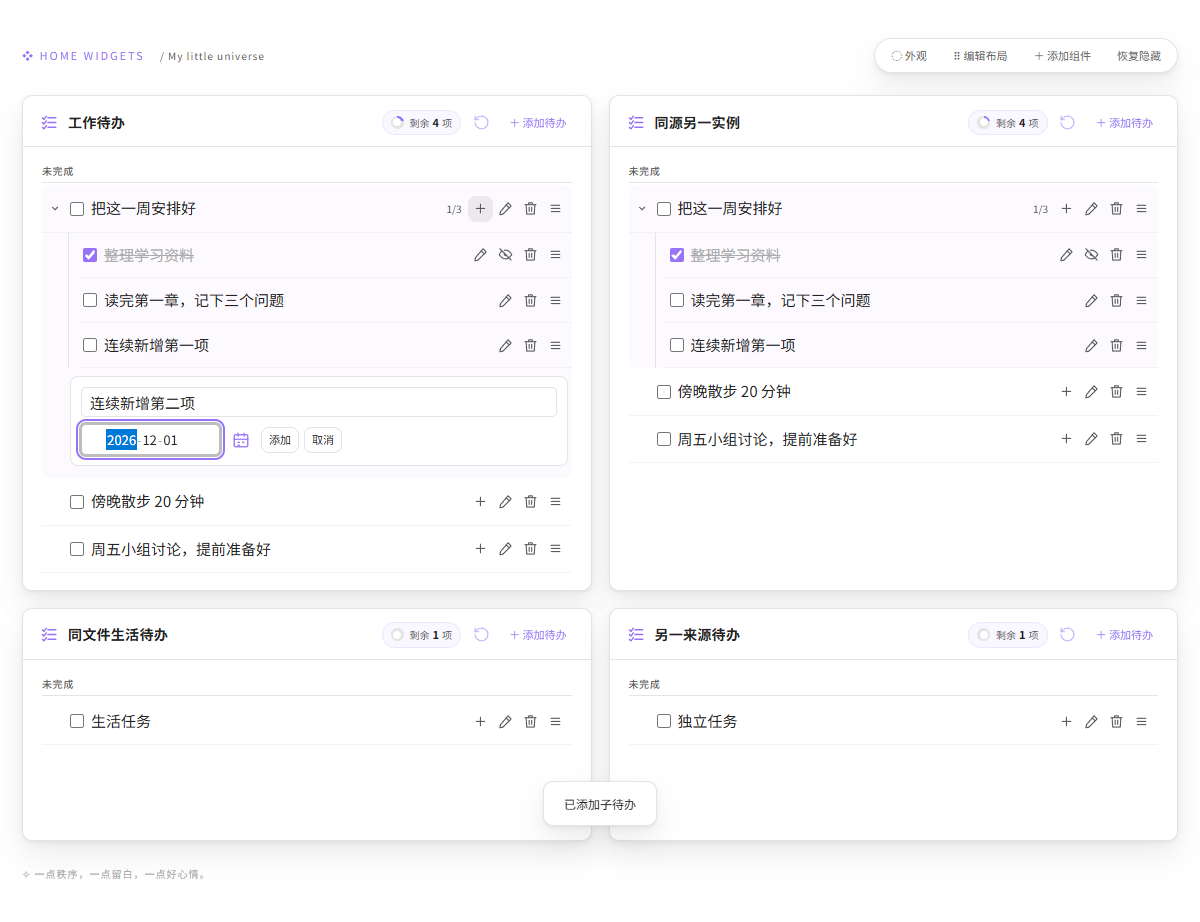
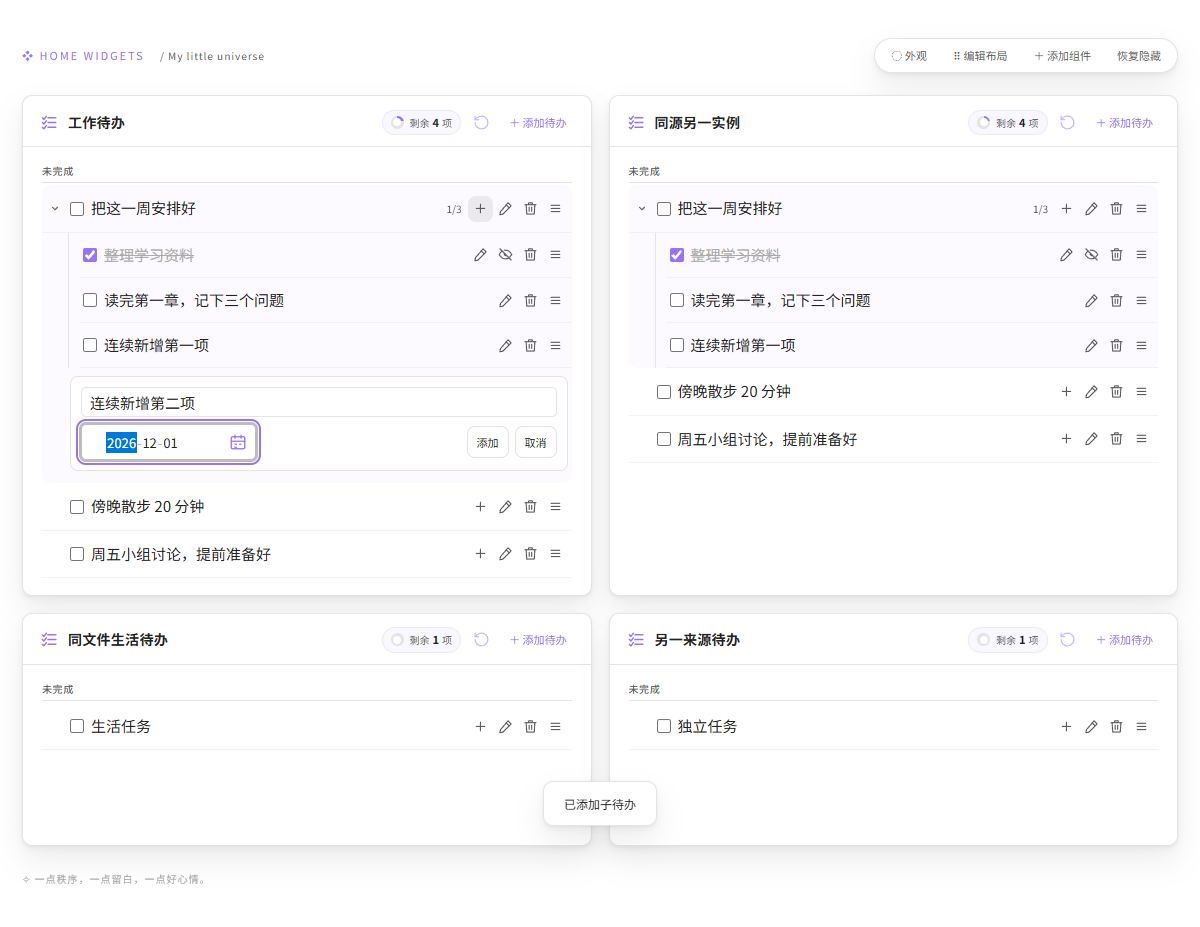
style(home-widgets): 调整子待办添加区布局

diff --git a/HomeWidgets/src/widgets/tasks/styles.css b/HomeWidgets/src/widgets/tasks/styles.css
@@ -51,12 +51,13 @@
 .hw-home [data-widget-type="tasks"] .hw-task-warning{margin:4px 8px 8px;font-size:11px;color:var(--text-error,#ae4865)}
 .hw-home [data-widget-type="tasks"] .hw-task-child-editor{display:grid;gap:7px;margin:8px 4px 12px 28px;padding:10px;border:1px solid var(--hw-line);border-radius:8px;background:var(--hw-panel)}
 .hw-home [data-widget-type="tasks"] .hw-task-child-input{width:100%;min-width:0;font:inherit}
-.hw-home [data-widget-type="tasks"] .hw-task-child-editor-tools{display:flex;align-items:center;gap:5px;flex-wrap:wrap}
+.hw-home [data-widget-type="tasks"] .hw-task-child-editor-tools{display:flex;align-items:center;gap:6px}
 .hw-home [data-widget-type="tasks"] .hw-task-child-editor-tools>.hw-date{flex:0 1 175px;min-width:0;max-width:100%}
-.hw-home [data-widget-type="tasks"] .hw-task-child-editor .hw-date-field{display:flex;align-items:center;gap:6px}
-.hw-home [data-widget-type="tasks"] .hw-task-child-editor .hw-date-trigger{position:static;flex:0 0 30px;transform:none}
-.hw-home [data-widget-type="tasks"] .hw-task-child-editor .hw-date-input{flex:1;width:100%;min-width:0}
-.hw-home [data-widget-type="tasks"] .hw-task-child-save,.hw-home [data-widget-type="tasks"] .hw-task-child-cancel{padding:4px 7px;font-size:11px}
+.hw-home [data-widget-type="tasks"] .hw-task-child-editor .hw-date-field{display:block}
+.hw-home [data-widget-type="tasks"] .hw-task-child-editor .hw-date-trigger{position:absolute;right:3px;top:50%;transform:translateY(-50%)}
+.hw-home [data-widget-type="tasks"] .hw-task-child-editor .hw-date-input{display:block;width:100%;min-width:0;min-height:36px;padding:6px 36px 6px 10px}
+.hw-home [data-widget-type="tasks"] .hw-task-child-save,.hw-home [data-widget-type="tasks"] .hw-task-child-cancel{flex:0 0 auto;min-height:32px;padding:4px 9px;font-size:11px;white-space:nowrap}
+.hw-home [data-widget-type="tasks"] .hw-task-child-save{margin-left:auto}
 @container home-widgets (max-width:480px){
   .hw-home [data-widget-type="tasks"] .hw-task-row-actions{max-width:75px}
   .hw-home [data-widget-type="tasks"] .hw-task-children{margin-left:20px;padding-left:6px}

diff --git a/HomeWidgets/README.md b/HomeWidgets/README.md
@@ -6,7 +6,7 @@
 
 分类待办已支持二级子待办与同级排序，完整规则见 [子待办与拖拽排序设计](子待办与拖拽排序设计.md)。
 
-点击主待办旁的加号可就地添加子项，Enter 或“添加”保存一条后关闭输入区，再次点击加号可继续添加；Esc 退出，保存失败保留草稿。每条子项可独立设置截止日期，日期输入框采用紧凑宽度，日历按钮位于日期右侧。父项旁的箭头用于折叠，进度如 `1/3` 表示子项完成数量。勾选父项会完成整组，取消父项会整组恢复未完成；完成最后一个子项会自动完成父项，单独恢复一个子项只恢复它和父项。重复待办保持独立使用。
+点击主待办旁的加号可就地添加子项，Enter 或“添加”保存一条后关闭输入区，再次点击加号可继续添加；Esc 退出，保存失败保留草稿。添加区上方整行输入内容，下方左侧为紧凑日期框，日历按钮内嵌于日期框右侧，“添加／取消”按钮靠右排列。父项旁的箭头用于折叠，进度如 `1/3` 表示子项完成数量。勾选父项会完成整组，取消父项会整组恢复未完成；完成最后一个子项会自动完成父项，单独恢复一个子项只恢复它和父项。重复待办保持独立使用。
 
 按住行尾的排序手柄拖动，或聚焦手柄后使用 Alt + 上下方向键调整顺序；Esc 取消拖拽。主项只在同一完成分区内排序，整组一起移动，子项只在同一父项下排序。单独勾选子项完成时，会带上其说明移到该组末尾；取消完成保留当前位置，父项整组勾选不重排子项。顺序保存到笔记，并同步到同源组件；日期只作提示。显示上限按主待办组数计算，组内子项完整显示。
 

diff --git a/HomeWidgets/VALIDATION.md b/HomeWidgets/VALIDATION.md
@@ -186,3 +186,9 @@ MyCalendar 定义新增 `frame: 'card'`，保留原 frameless 标题栏行为，
 查明工作与生活待办同读 `Home/待办.md`，文件变更会触发所有同源待办；原宿主先清空 DOM 再异步读文件，造成明显空白闪烁。新增可选延迟绘制约定：待办读完数据后才同步替换内容，读失败保留旧内容。未变化分类只更新任务操作的快照而不重建 DOM；正在读取时收到的重复刷新合并排队，列表滚动位置保留。倒计时使用日期集合事件和插件 JSON 数据，通知范围更小，其业务逻辑未修改。
 
 `npm test`（含构建）129 项通过。内存浏览器延迟笔记读取 100ms，逐帧检查所有已有待办卡片，没有空白帧；验证同源其他分类及不同来源卡片保持列表节点，受影响镜像正常同步，读取失败时保留列表并还原可操作勾选框。另验证子项完成后置底、日期图标在右侧、日期框宽度、多行对齐、行内输入及已有排序/隐藏交互，页面无错误；未操作真实待办。截图保存在 `preview/task-tree/`。原生 Obsidian 的视觉效果需重新加载插件查看。
+
+## 2026-10-22 子待办添加区参考图布局
+
+按参考图调整为上方整行内容输入，下方左侧紧凑日期框、框内右侧日历按钮，下方“添加／取消”按钮靠右对齐。仅修改添加区样式，沿用日期浮层与原有保存行为。
+
+构建及现有内存浏览器脚本通过，检查按钮在日期框内部右侧、两操作按钮靠右且与日期框垂直居中，并查看 390px 下添加区布局和日历浮层。无页面错误。截图为 `preview/task-tree/add-child.png` 和 `add-child-narrow.png`。

diff --git a/HomeWidgets/子待办与拖拽排序设计.md b/HomeWidgets/子待办与拖拽排序设计.md
@@ -25,7 +25,7 @@
 - 父项旁提供“＋子待办”入口；点击后展开该组，在组内就地输入，首次自动聚焦。
 - 按用户后续修订：Enter 或“添加”保存一条后关闭行内输入区，不自动开启下一条；用户再次点击“＋子待办”才添加下一条。Esc 退出行内添加。
 - 子项截止日期独立可选；输入和编辑需沿用现有日期组件及主题风格。
-- 2026-10-22 最新界面修订：日历图标移到日期输入框右侧，日期框采用紧凑宽度；主项与子项的勾选框按首行文字行高居中对齐，多行文本也以首行为准。
+- 2026-10-22 最新界面修订：上方整行输入子待办内容，下方左侧为紧凑日期框，日历图标内嵌于日期框右侧，下方“添加／取消”按钮靠右对齐；主项与子项的勾选框按首行文字行高居中对齐，多行文本也以首行为准。
 - 给已完成父项添加新的未完成子项，会将父项恢复为未完成；已有子项的勾选状态保持不变。
 - 主待办现有添加和编辑能力应继续可用。子项也可以编辑标题、日期。
 - 中文输入法选字期间不得将 Enter 识别为提交；保存失败应保留输入，避免丢失草稿。这是实施质量要求。
